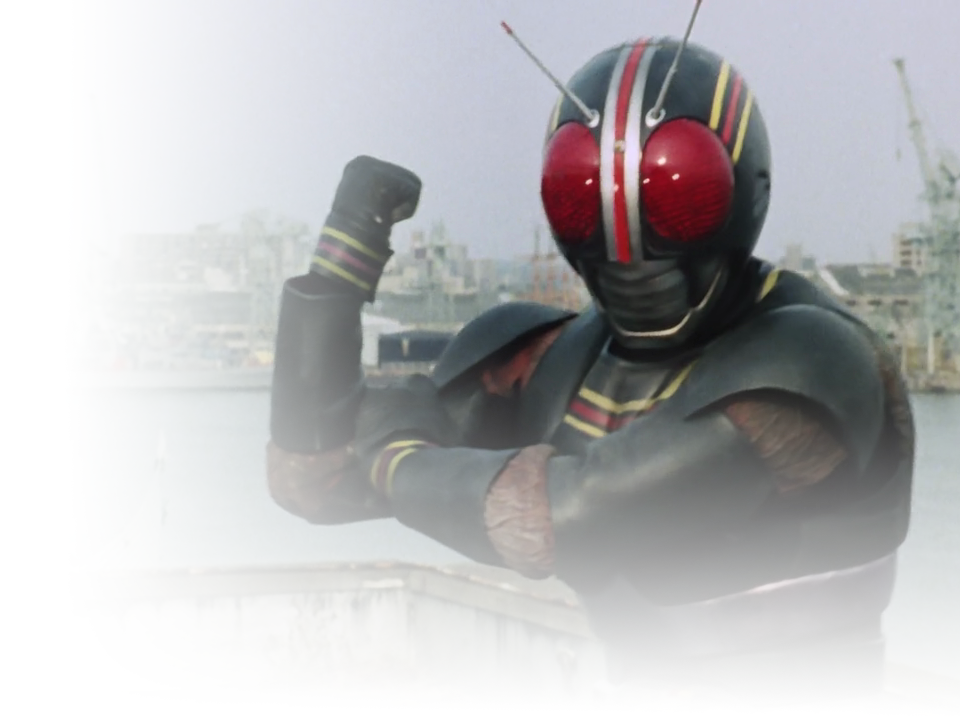
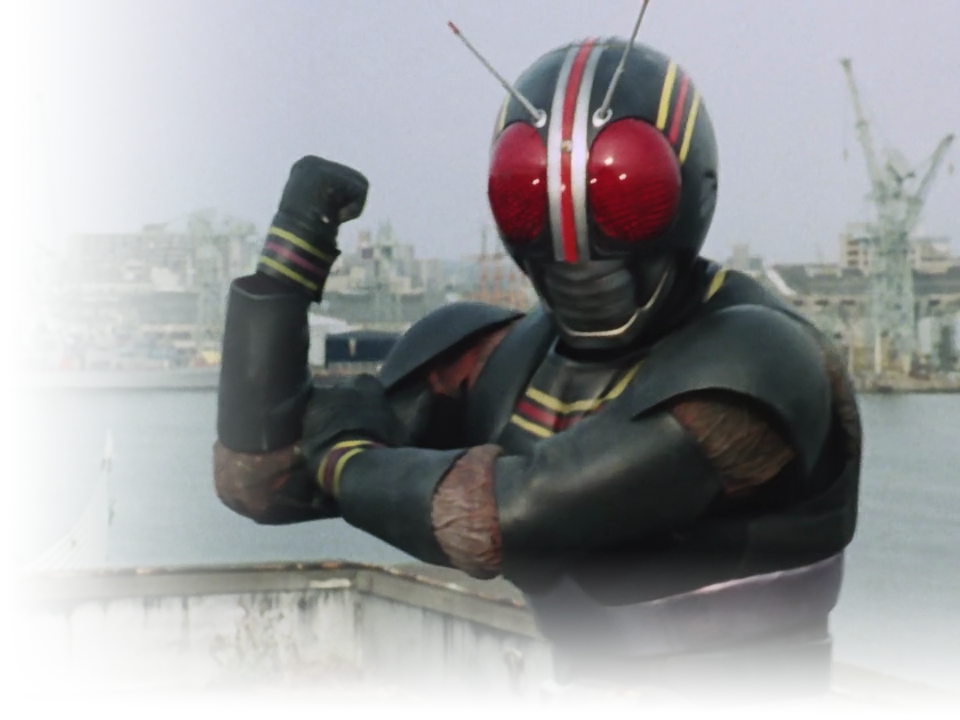
fixed show more/less button; fixed sff show background image layout

diff --git a/public/css/site.css b/public/css/site.css
@@ -26,10 +26,21 @@ html, body {
 }
 
 body {
+    background-image: linear-gradient(45deg, var(--my-secondary-color), var(--my-primary-color), var(--my-secondary-color));
+    background-repeat: no-repeat;
+    background-size: cover;
+    background-attachment: fixed !important;
+}
+
+#background-show-image {
     background-position: top right;
     background-repeat: no-repeat;
     background-size: contain;
-    background-attachment: fixed;
+    background-attachment: fixed !important;
+}
+
+#body-footer-container {
+    min-height: calc(100vh - 76px); /* less top navbar height */
 }
 
 .background-show-01 {
@@ -265,6 +276,7 @@ body, #bookmark-button {
 }
 
 @media screen and (min-width: 768px) {
+
     #non-small-form-factor #card-body {
         width: calc((720px - (0.75rem * 2) - (var(--cards-spacing) * 4)) / 5);
     }
@@ -277,12 +289,14 @@ body, #bookmark-button {
 }
 
 @media screen and (max-width: 992px) {
+
     #brand-navbar-non-sff-container {
         display: none;
     }
 }
 
 @media screen and (min-width: 992px) {
+
     #non-small-form-factor #card-body {
         width: calc((960px - (0.75rem * 2) - (var(--cards-spacing) * 4)) / 5);
     }
@@ -297,6 +311,7 @@ body, #bookmark-button {
 }
 
 @media screen and (min-width: 1200px) {
+
     #non-small-form-factor #card-body {
         width: calc((1140px - (0.75rem * 2) - (var(--cards-spacing) * 4)) / 5);
     }
@@ -400,6 +415,30 @@ body, #bookmark-button {
 
 #episode-list-filter-container {
     transform: translateX(-0.25rem);
+}
+
+@media screen and (max-width: 1100px) {
+    #body-footer-container {
+        transform: translateY(400px) !important;
+    }
+}
+
+@media screen and (max-width: 767px) {
+    #body-footer-container {
+        transform: translateY(300px) !important;
+    }
+}
+
+@media screen and (max-width: 575px) {
+    #body-footer-container {
+        transform: translateY(200px) !important;
+    }
+}
+
+@media screen and (max-width: 287px) {
+    #body-footer-container {
+        transform: translateY(100px) !important;
+    }
 }
 
 @media screen and (max-width: 1100px) {
@@ -541,9 +580,9 @@ body, #bookmark-button {
     /*#show-summary {*/
     /*    padding: 0 !important;*/
     /*}*/
-    #hero-section {
-        margin-top: 30%;
-    }
+    /*#hero-section {*/
+    /*    margin-top: 30%;*/
+    /*}*/
 
 }
 

diff --git a/public/scripts/show.js b/public/scripts/show.js
@@ -189,7 +189,7 @@ window.addEventListener("load", function () {
     const showMoreText = showMore.querySelector("span");
     const showMoreIcon = showMore.querySelector("i");
 
-    showMore.addEventListener("click", function() {
+    showMore.addEventListener("click", function () {
         showSummary.classList.toggle("summary-overflow");
         if (showMoreIcon.classList.contains("fa-chevron-down")) {
             showMoreIcon.classList.replace("fa-chevron-down", "fa-chevron-up");
@@ -198,6 +198,40 @@ window.addEventListener("load", function () {
             showMoreIcon.classList.replace("fa-chevron-up", "fa-chevron-down");
             showMoreText.innerHTML = "SHOW MORE";
         }
+    });
+
+    function displayShowMore() {
+        if (showSummary.scrollHeight === showSummary.clientHeight) {
+            // TODO: if you resize the window while the summary section is expanded, it will hide the show more/less button
+            showMore.style.display = "none";
+        } else {
+            showMore.style.display = "block";
+        }
+    }
+
+    displayShowMore();
+
+    const backgroundShowImage = document.querySelector("#background-show-image");
+    const bodyFooterContainer = document.querySelector("#body-footer-container");
+
+    function setBackgroundShowImage() {
+        if (backgroundShowImage.offsetWidth <= 1083) {
+            // TODO: create sff-background for all shows
+            // backgroundShowImage.style.backgroundImage = `url("${backgroundShowImage.dataset.imageEndpoint}/sff-background.png")`;
+            backgroundShowImage.style.backgroundImage = `url("${backgroundShowImage.dataset.imageEndpoint}/background.png")`;
+            backgroundShowImage.style.transform = "translate(0,0)";
+        } else {
+            backgroundShowImage.style.backgroundImage = `url("${backgroundShowImage.dataset.imageEndpoint}/background.png")`;
+            backgroundShowImage.style.transform = "translate(0,-76px)";
+            bodyFooterContainer.style.transform = "translate(0,76px)";
+        }
+    }
+
+    setBackgroundShowImage();
+
+    window.addEventListener("resize", () => {
+        setBackgroundShowImage();
+        displayShowMore();
     });
 
 });

diff --git a/public/scripts/episode.js b/public/scripts/episode.js
@@ -355,6 +355,17 @@ window.addEventListener("load", function () {
     const showMoreText = showMore.querySelector("span");
     const showMoreIcon = showMore.querySelector("i");
 
+    function displayShowMore() {
+        if (episodeSynopsis.scrollHeight === episodeSynopsis.clientHeight) {
+            // TODO: if you resize the window while the episode synopsis is expanded, it will hide the show more/less button
+            showMore.style.display = "none";
+        } else {
+            showMore.style.display = "block";
+        }
+    }
+
+    displayShowMore();
+
     showMore.addEventListener("click", function () {
         episodeSynopsis.classList.toggle("synopsis-overflow");
         console.log(episodeSynopsis);
@@ -365,6 +376,10 @@ window.addEventListener("load", function () {
             showMoreIcon.classList.replace("fa-chevron-up", "fa-chevron-down");
             showMoreText.innerHTML = "SHOW MORE";
         }
+    });
+
+    window.addEventListener("resize", () => {
+        displayShowMore();
     });
 
 });

diff --git a/app.js b/app.js
@@ -152,8 +152,12 @@ app.get("/show/:slug", initTopNavBar(), async function (req, res) {
             }
         }
 
-        // return other shows
-        res.locals.suggestions = await shows.find().where("_id").ne(showId).sort({releaseInfo: 1, title: 1}).lean();
+        // return other shows of same category
+        res.locals.suggestions = await shows.find(
+            {
+                _id: {$ne: showId},
+                categoryId: show.categoryId
+            }).sort({releaseInfo: 1, title: 1}).lean();
 
         const videoCollection = await videos.find({showId: showId}).populate({
             path: "showId",
@@ -484,7 +488,7 @@ app.get("/initialise-database", async function (req, res) {
     res.json({message: message});
 });
 
-app.get(["/like/:slug/episode/:episodeId","/dislike/:slug/episode/:episodeId"], async function (req, res) {
+app.get(["/like/:slug/episode/:episodeId", "/dislike/:slug/episode/:episodeId"], async function (req, res) {
 
     try {
         const url = req.url;
